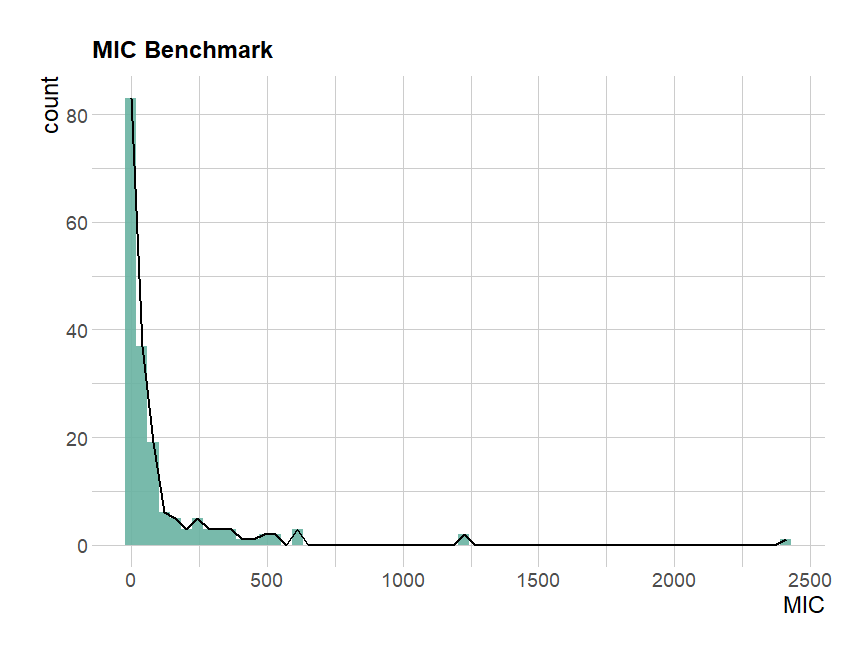
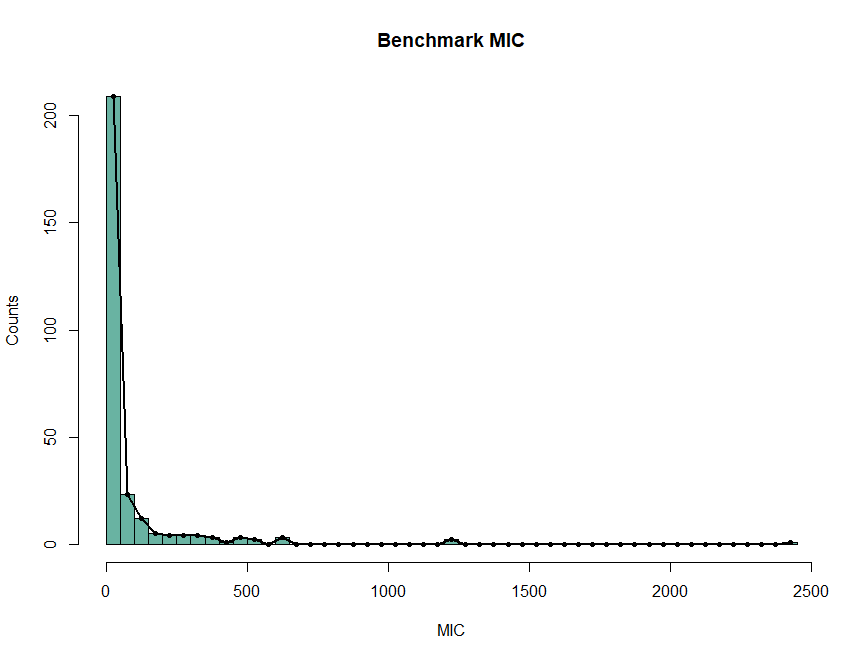
Updated figures

diff --git a/Thesis/sections/5.Experiments.tex b/Thesis/sections/5.Experiments.tex
@@ -104,6 +104,8 @@ Next, we take a look at the detection of used dependencies. There are 9 cases in
 
 \paragraph{Threats to validity}
 
+- Depends on how precise is their data
+
 \section{Experiment 2: Coupling metrics significance}\label{sec:experiment2}
 
 The goal of this experiment is to validate if the coupling metrics designed in the model, namely \texttt{MIC}, \texttt{AC}, \texttt{TMIC}, and \texttt{TAC}, are a good indicator of the usage of the dependencies by the clients. As a partial validation of the metrics' significance, we compare it with the results gathered from the usage metrics. We want to know how often a dependency is used, either by using classes or methods, and it is detected as uncoupled by the coupling metrics. This way, we know if there are many cases in which a dependency is only used with a type of connection other than method invocation or field declaration.
@@ -388,7 +390,7 @@ This last experiment has various goals. The main one is to validate the design o
   \item Algorithm Design
 \end{enumerate}
 
-In this case, we focus on the third option: Visual Encoding and Interaction Design. To carry out this validation, we designed an \textit{Expert Review} by the means of interviews. In addition, the second goal of this experiment is to evaluate the clarity and actionability of the metrics included in the model. Therefore, we added questions about clarity and actionablity, so the participants could give their view. Therefore, these two aspects of the metrics, which are included in the set of validation criteria defined by Meneely et al. \cite{Meneely2012}, can also be validated.
+In this case, we focus on the third option: Visual Encoding and Interaction Design. To carry out this validation, we designed an \textit{Expert Review} by the means of interviews. In addition, the second goal of this experiment is to evaluate the clarity and actionability of the metrics included in the model. Therefore, we added questions about clarity and actionablity, so the participants could give their view. Therefore, these two aspects of the metrics, which are included in the set of validation criteria defined by Meneely et al. \cite{Meneely2012}, can also be validated. Is important to mention that this experiment is not a complete validation of the metrics or the visualization in all scenarios. Instead it is used to evaluate the clarity and actionability of the metrics, and the usability of the visualizations in the discussed scenarios, not in a general sense.
 
 \subsection{Experimental set up}
 The interview consists on 19 questions and a demonstration of the PoC, with two proposed scenarios in which the interviewee uses the tool. The questions are divided in four sections, which together with the demonstration divide the interview in a total of five parts:
@@ -853,7 +855,7 @@ In the results of all the metrics, one can see that the majority of the values a
 
 When comparing the results of the metrics \texttt{TMIC} and \texttt{TAC} with different values of \textit{propagation factor}, the comparison is not exactly as it could be intuitively expected. In Figures \ref{fig:TMIC-benchmark-1} and \ref{fig:TMIC-benchmark-0.1} we can see the benchmark of \texttt{TMIC} with \textit{propagation factor} $1$ and $0.1$, respectively. Given that one \textit{propagation factor} is 10 times smaller than the other one, we would expect the results of the metrics to be 10 times smaller as well. However, we can see that on the right side of the plot; there is at least one dependency with \texttt{TMIC} around $5000$ for both \textit{propagation factors}. We looked at the values measured to understand why this happened. The dependency has two distances at which coupling is measured: 1 and 2. These distances have a coupling of 4958 and 11, respectively. Following the equation \ref{eqn:tmic}, since the \textit{propagation factor} is used to the power of $\verb|distance| - 1$, it is not applied when distance is 1. This is also consistent with the fact that distance 1 means that the server library is, in this case, a direct dependency, and therefore there is no mitigation of the coupling. Hence, that is why this value appears with both \textit{propagation factors} because it is only applied for distance 2, which has a small value, in comparison with distance 1. The same scenario can be seen in the case of \texttt{TAC} (Figures \ref{fig:TAC-benchmark-1} and \ref{fig:TAC-benchmark-0.1}).
 
-Furthermore, it is expected that with a lower propagation factor, the values of the metrics are pushed to zero. Therefore, the first bin of the graph should substantially increase. Looking at Figure \ref{fig:TMIC-benchmark-1}, we can see that the first bin with $1$ as the \textit{propagation factor} is around $80$. In Figure \ref{fig:TMIC-benchmark-0.5}, we can see that the first bin increased to around $100$. The increment is not as high as could be expected, considering the difference between the propagation factors. However, this is again due to some server libraries being at the same time direct and transitive dependencies; the coupling measured at distance $1$ decreases the difference in the value of the metric. Nevertheless, the fact that a decrease in the \textit{propagation factor} moves the distribution of the metric's values to zero can be seen in Table \ref{table:percentiles}. In the table, we can see that the percentiles' values are closer to zero as the \textit{propagation factor} decreases.
+Furthermore, it is expected that with a lower propagation factor, the values of the metrics are pushed to zero. Therefore, the first bin of the graph should substantially increase. Looking at Figure \ref{fig:TMIC-benchmark-1}, we can see that the first bin with $1$ as the \textit{propagation factor} is around $100$. In Figure \ref{fig:TMIC-benchmark-0.5}, we can see that the first bin increased to around $110$, and in Figure \ref{fig:TMIC-benchmark-0.1}, the count of the first bin is around $120$. The increment is not as high as could be expected, considering the difference between the propagation factors. However, this is again due to some server libraries being at the same time direct and transitive dependencies; the coupling measured at distance $1$ decreases the difference in the value of the metric. Nevertheless, the fact that a decrease in the \textit{propagation factor} moves the distribution of the metric's values to zero can be seen in Table \ref{table:percentiles}. In the table, we can see that the percentiles' values are closer to zero as the \textit{propagation factor} decreases.
 
 \begin{finding}
 	The values of \texttt{TMIC} and \texttt{TAC}, do not decrease as much as could be expected when the \textit{propagation factor} is decreased. This is because of the libraries which are found in direct and transitive dependencies. The coupling created with the direct dependency remains equal regardless of which \textit{propagation factor} is applied.
